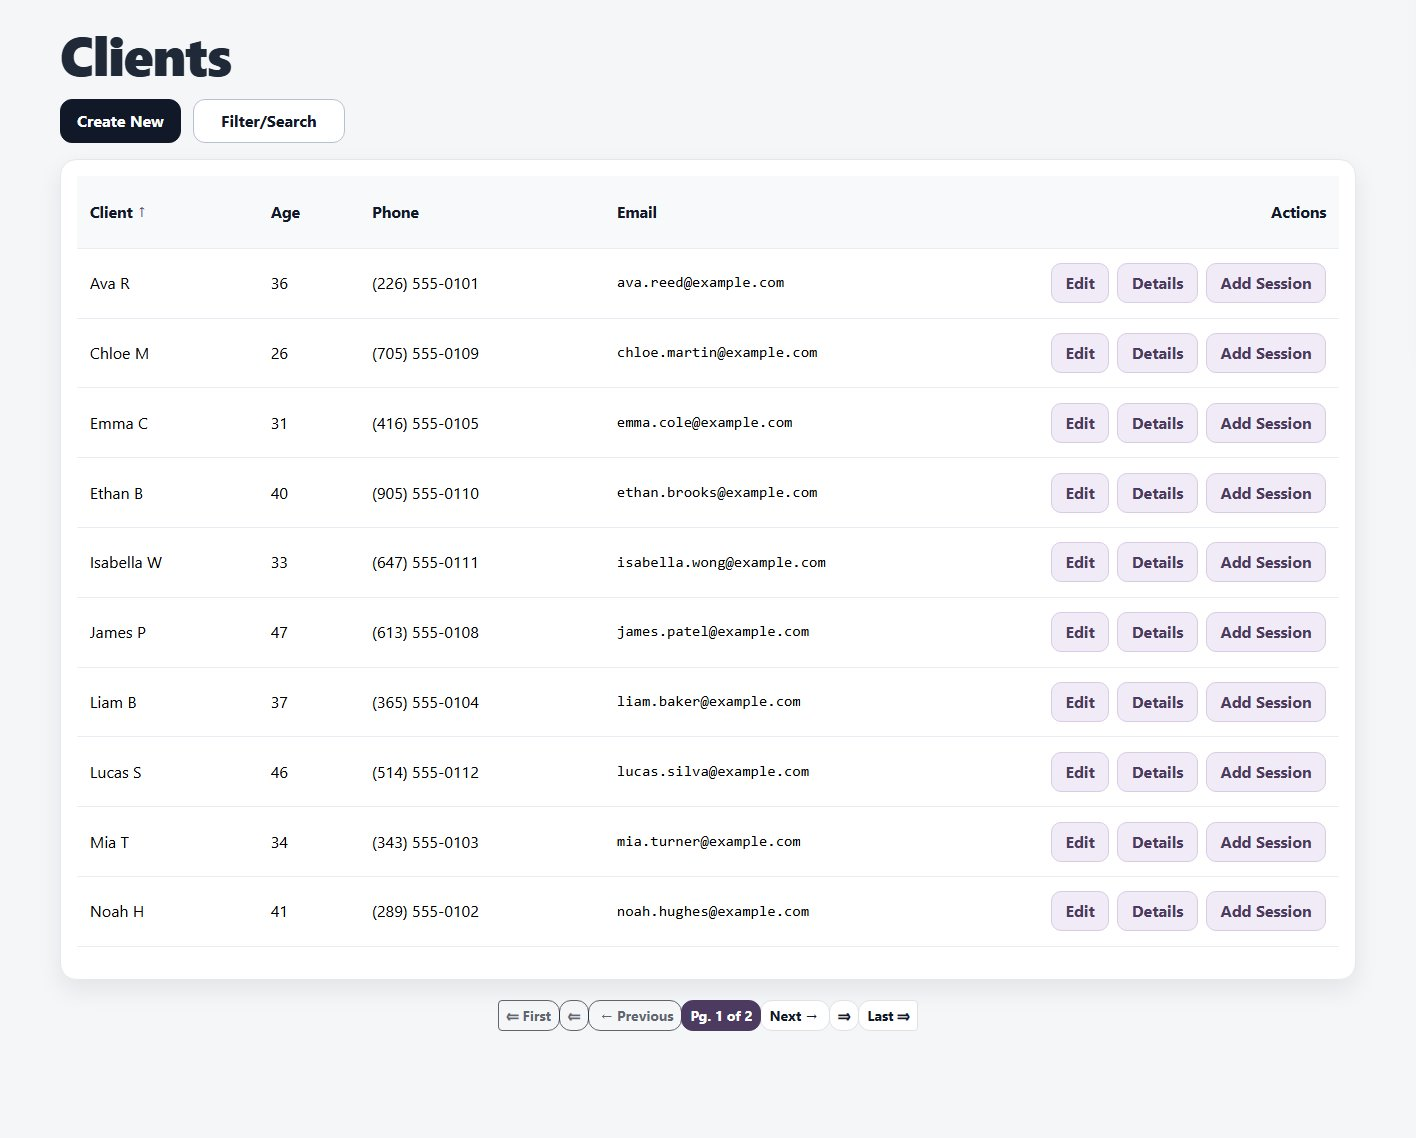
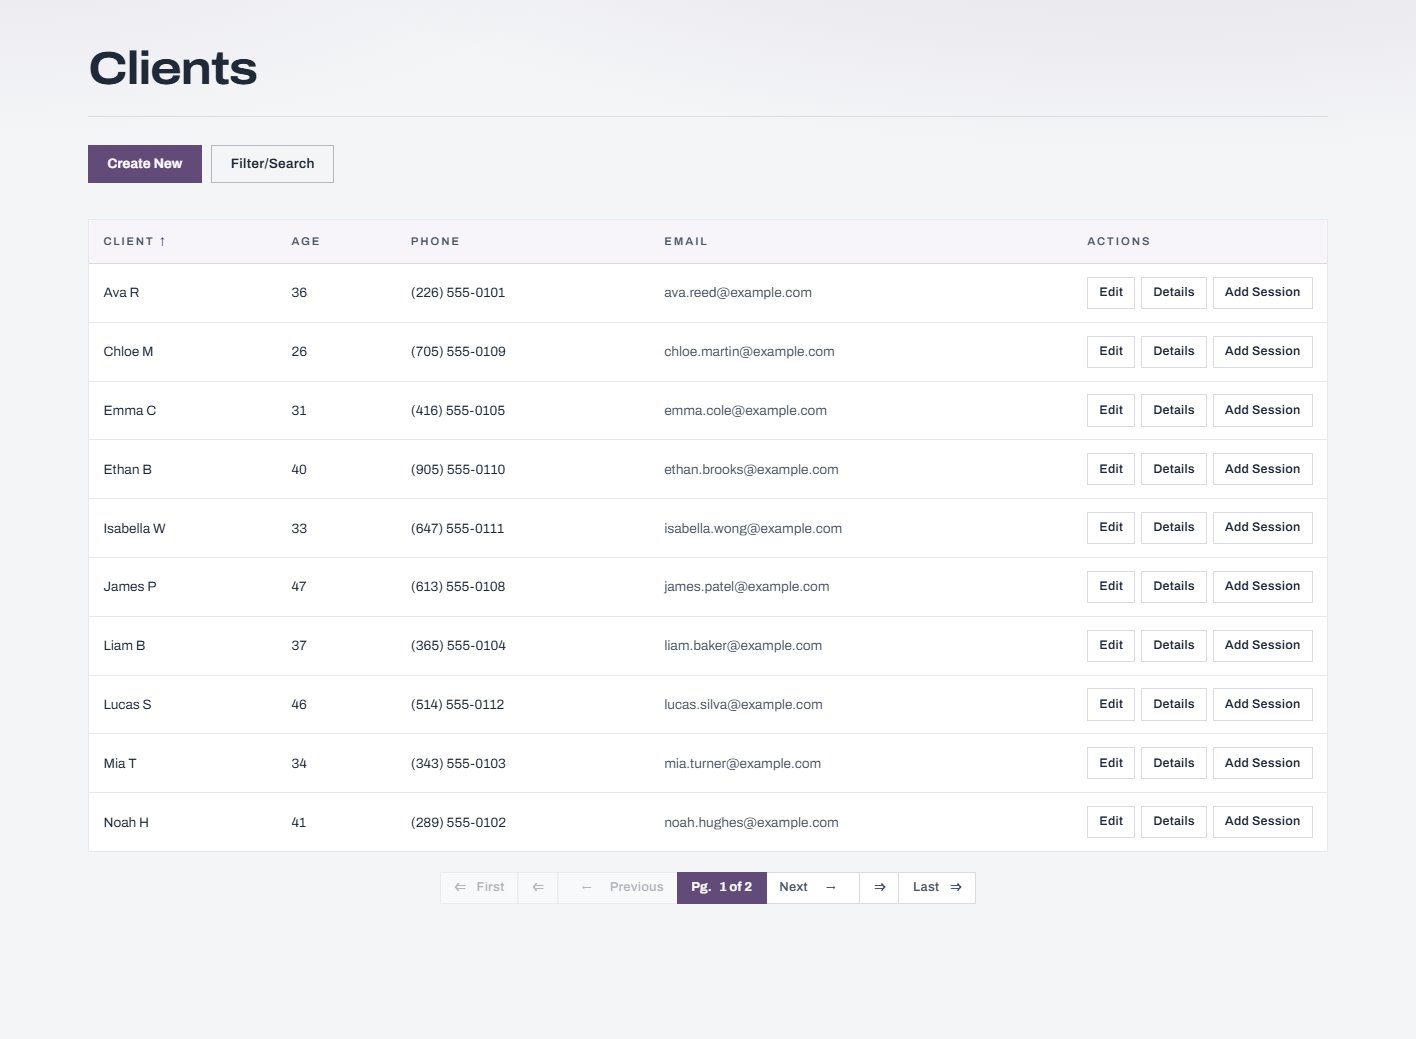
Recapture Movement Unlimited from the redesigned build
The ten captures were taken from a checkout that predated the interface
redesign now running on the live demo: refreshed wordmark, mono table
headers, a shorter 69px navigation bar. Same ten pages captured again from
the current build, the pinned header slices and page heights updated to
match, and the home reel's click targets re-measured against the new tab
positions.

diff --git a/portfolio.html b/portfolio.html
@@ -176,44 +176,44 @@
             <div class="strip-view" tabindex="0" aria-label="Movement Unlimited screenshots, scrolls sideways">
               <div class="strip-track">
                 <button type="button" class="zoom strip-item" aria-label="View larger: the dashboard">
-                  <img src="assets/work/head-mu-dashboard.jpg" alt="" loading="lazy" width="1416" height="101">
-                  <img class="strip-main" src="assets/work/reel-mu-dashboard.jpg" alt="Movement Unlimited dashboard showing upcoming sessions." loading="lazy" width="1416" height="707">
+                  <img src="assets/work/head-mu-dashboard.jpg" alt="" loading="lazy" width="1416" height="69">
+                  <img class="strip-main" src="assets/work/reel-mu-dashboard.jpg" alt="Movement Unlimited dashboard showing upcoming sessions." loading="lazy" width="1416" height="739">
                 </button>
                 <button type="button" class="zoom strip-item" aria-label="View larger: the sessions list">
-                  <img src="assets/work/head-mu-sessions.jpg" alt="" loading="lazy" width="1416" height="101">
-                  <img class="strip-main" src="assets/work/reel-mu-sessions.jpg" alt="Sessions list with export and bulk upload." loading="lazy" width="1416" height="1882">
+                  <img src="assets/work/head-mu-sessions.jpg" alt="" loading="lazy" width="1416" height="69">
+                  <img class="strip-main" src="assets/work/reel-mu-sessions.jpg" alt="Sessions list with export and bulk upload." loading="lazy" width="1416" height="1722">
                 </button>
                 <button type="button" class="zoom strip-item" aria-label="View larger: a session's details">
-                  <img src="assets/work/head-mu-session-detail.jpg" alt="" loading="lazy" width="1416" height="101">
-                  <img class="strip-main" src="assets/work/reel-mu-session-detail.jpg" alt="One session opened, with its exercises and notes." loading="lazy" width="1416" height="872">
+                  <img src="assets/work/head-mu-session-detail.jpg" alt="" loading="lazy" width="1416" height="69">
+                  <img class="strip-main" src="assets/work/reel-mu-session-detail.jpg" alt="One session opened, with its exercises and notes." loading="lazy" width="1416" height="827">
                 </button>
                 <button type="button" class="zoom strip-item" aria-label="View larger: creating a session">
-                  <img src="assets/work/head-mu-session-create.jpg" alt="" loading="lazy" width="1416" height="101">
-                  <img class="strip-main" src="assets/work/reel-mu-session-create.jpg" alt="The create session form." loading="lazy" width="1416" height="707">
+                  <img src="assets/work/head-mu-session-create.jpg" alt="" loading="lazy" width="1416" height="69">
+                  <img class="strip-main" src="assets/work/reel-mu-session-create.jpg" alt="The create session form." loading="lazy" width="1416" height="748">
                 </button>
                 <button type="button" class="zoom strip-item" aria-label="View larger: editing a session">
-                  <img src="assets/work/head-mu-session-edit.jpg" alt="" loading="lazy" width="1416" height="101">
-                  <img class="strip-main" src="assets/work/reel-mu-session-edit.jpg" alt="Editing a session's details and workflow." loading="lazy" width="1416" height="821">
+                  <img src="assets/work/head-mu-session-edit.jpg" alt="" loading="lazy" width="1416" height="69">
+                  <img class="strip-main" src="assets/work/reel-mu-session-edit.jpg" alt="Editing a session's details and workflow." loading="lazy" width="1416" height="2954">
                 </button>
                 <button type="button" class="zoom strip-item" aria-label="View larger: the clients list">
-                  <img src="assets/work/head-mu-clients.jpg" alt="" loading="lazy" width="1416" height="101">
-                  <img class="strip-main" src="assets/work/reel-mu-clients.jpg" alt="The client list with quick actions." loading="lazy" width="1416" height="1138">
+                  <img src="assets/work/head-mu-clients.jpg" alt="" loading="lazy" width="1416" height="69">
+                  <img class="strip-main" src="assets/work/reel-mu-clients.jpg" alt="The client list with quick actions." loading="lazy" width="1416" height="1039">
                 </button>
                 <button type="button" class="zoom strip-item" aria-label="View larger: a client's record">
-                  <img src="assets/work/head-mu-client-detail.jpg" alt="" loading="lazy" width="1416" height="101">
-                  <img class="strip-main" src="assets/work/reel-mu-client-detail.jpg" alt="A client record with their session history." loading="lazy" width="1416" height="2156">
+                  <img src="assets/work/head-mu-client-detail.jpg" alt="" loading="lazy" width="1416" height="69">
+                  <img class="strip-main" src="assets/work/reel-mu-client-detail.jpg" alt="A client record with their session history." loading="lazy" width="1416" height="1444">
                 </button>
                 <button type="button" class="zoom strip-item" aria-label="View larger: the reports screen">
-                  <img src="assets/work/head-mu-reports.jpg" alt="" loading="lazy" width="1416" height="101">
-                  <img class="strip-main" src="assets/work/reel-mu-reports.jpg" alt="Reports with session statistics over a date range." loading="lazy" width="1416" height="1171">
+                  <img src="assets/work/head-mu-reports.jpg" alt="" loading="lazy" width="1416" height="69">
+                  <img class="strip-main" src="assets/work/reel-mu-reports.jpg" alt="Reports with session statistics over a date range." loading="lazy" width="1416" height="1012">
                 </button>
                 <button type="button" class="zoom strip-item" aria-label="View larger: client analytics">
-                  <img src="assets/work/head-mu-reports-clients.jpg" alt="" loading="lazy" width="1416" height="101">
-                  <img class="strip-main" src="assets/work/reel-mu-reports-clients.jpg" alt="The client analytics report tab." loading="lazy" width="1416" height="1185">
+                  <img src="assets/work/head-mu-reports-clients.jpg" alt="" loading="lazy" width="1416" height="69">
+                  <img class="strip-main" src="assets/work/reel-mu-reports-clients.jpg" alt="The client analytics report tab." loading="lazy" width="1416" height="1012">
                 </button>
                 <button type="button" class="zoom strip-item" aria-label="View larger: account management">
-                  <img src="assets/work/head-mu-accounts.jpg" alt="" loading="lazy" width="1416" height="101">
-                  <img class="strip-main" src="assets/work/reel-mu-accounts.jpg" alt="Managing staff accounts and roles." loading="lazy" width="1416" height="707">
+                  <img src="assets/work/head-mu-accounts.jpg" alt="" loading="lazy" width="1416" height="69">
+                  <img class="strip-main" src="assets/work/reel-mu-accounts.jpg" alt="Managing staff accounts and roles." loading="lazy" width="1416" height="739">
                 </button>
               </div>
             </div>

diff --git a/index.html b/index.html
@@ -141,17 +141,17 @@
             <span class="device device-browser" data-reel style="--screen-bg:#F5F6F8">
               <span class="device-bar" aria-hidden="true"><i></i><i></i><i></i><b>Movement Unlimited</b></span>
               <span class="device-screen">
-                <span class="reel-slide is-live" data-click="35.0,50">
-                  <img class="reel-head" src="assets/work/head-mu-dashboard.jpg" alt="" loading="lazy" width="1416" height="101">
-                  <img class="reel-page" src="assets/work/reel-mu-dashboard.jpg" alt="Movement Unlimited dashboard." loading="lazy" width="1416" height="707">
+                <span class="reel-slide is-live" data-click="35.5,49">
+                  <img class="reel-head" src="assets/work/head-mu-dashboard.jpg" alt="" loading="lazy" width="1416" height="69">
+                  <img class="reel-page" src="assets/work/reel-mu-dashboard.jpg" alt="Movement Unlimited dashboard." loading="lazy" width="1416" height="739">
                 </span>
-                <span class="reel-slide" data-click="44.0,50">
-                  <img class="reel-head" src="assets/work/head-mu-sessions.jpg" alt="" loading="lazy" width="1416" height="101">
-                  <img class="reel-page" src="assets/work/reel-mu-sessions.jpg" alt="" loading="lazy" width="1416" height="1882">
+                <span class="reel-slide" data-click="41.0,49">
+                  <img class="reel-head" src="assets/work/head-mu-sessions.jpg" alt="" loading="lazy" width="1416" height="69">
+                  <img class="reel-page" src="assets/work/reel-mu-sessions.jpg" alt="" loading="lazy" width="1416" height="1722">
                 </span>
-                <span class="reel-slide" data-click="16.9,50">
-                  <img class="reel-head" src="assets/work/head-mu-reports.jpg" alt="" loading="lazy" width="1416" height="101">
-                  <img class="reel-page" src="assets/work/reel-mu-reports.jpg" alt="" loading="lazy" width="1416" height="1171">
+                <span class="reel-slide" data-click="24.6,49">
+                  <img class="reel-head" src="assets/work/head-mu-reports.jpg" alt="" loading="lazy" width="1416" height="69">
+                  <img class="reel-page" src="assets/work/reel-mu-reports.jpg" alt="" loading="lazy" width="1416" height="1012">
                 </span>
               </span>
               <span class="reel-cursor" aria-hidden="true"></span>
